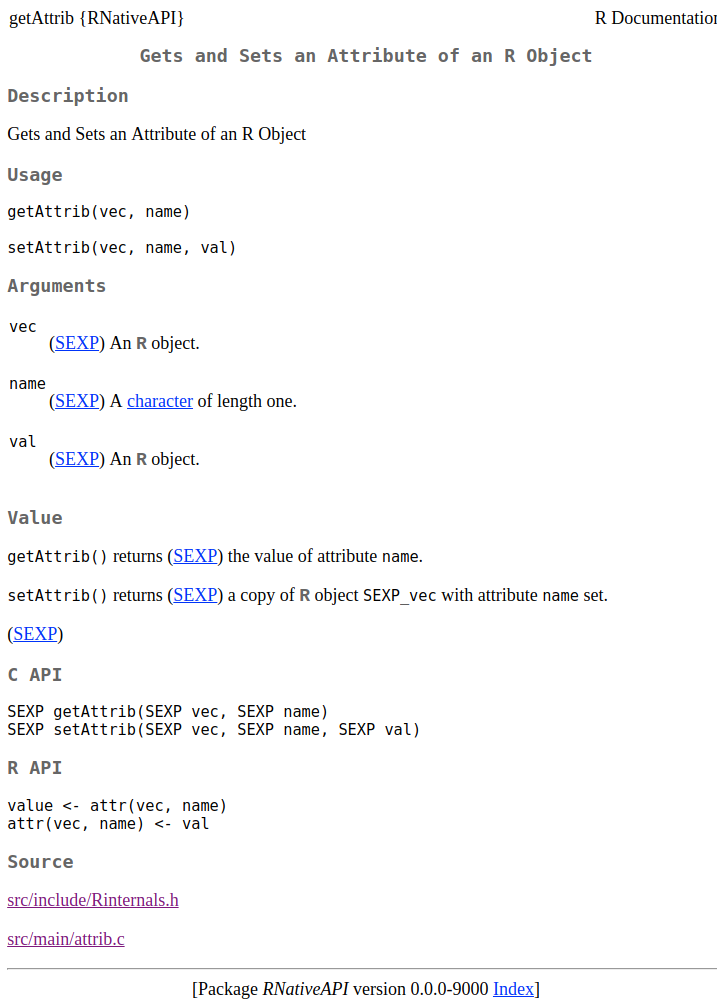
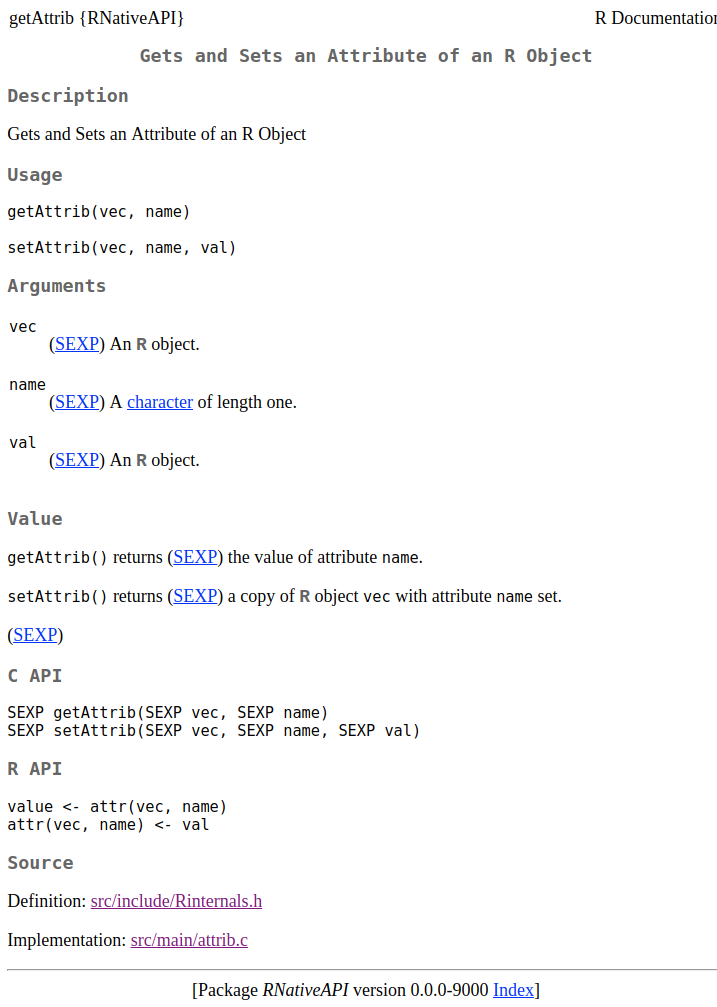
more tweaks

diff --git a/README.md b/README.md
@@ -45,9 +45,9 @@ Arguments:
 
 Value:
 
-     (SEXP) Gets the value of attribute ‘name’.
+     getAttrib() returns (SEXP) the value of attribute ‘name’.
 
-     (SEXP) A copy of R object ‘SEXP_vec’ with attribute ‘name’ set.
+     setAttrib() returns (SEXP) a copy of R object ‘vec’ with attribute ‘name’ set.
 
 C API:
 
